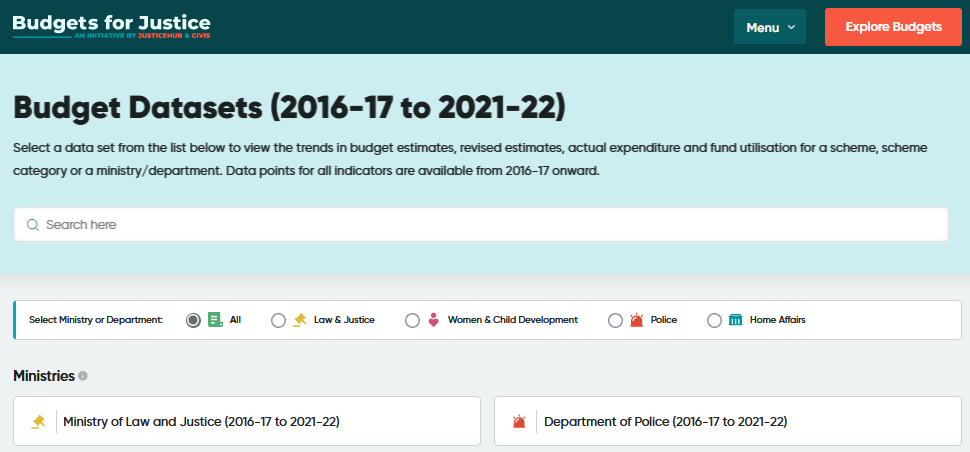
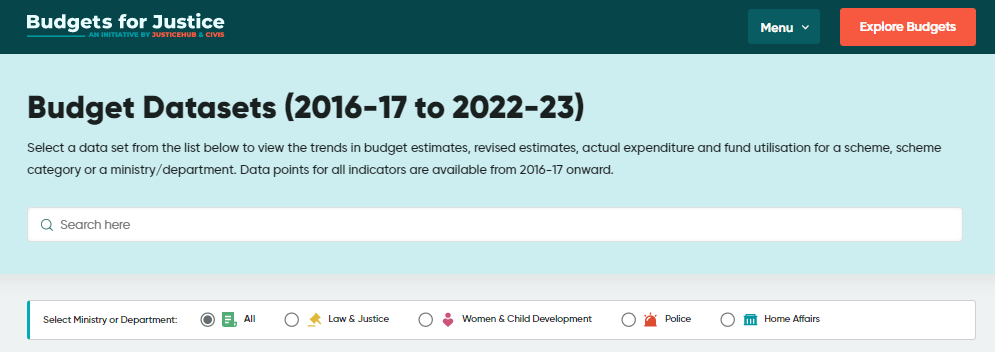
update b4j content

diff --git a/content/work/lawandjustice/budgets-for-justice/index.md b/content/work/lawandjustice/budgets-for-justice/index.md
@@ -7,9 +7,9 @@ context:  |
 
   **Features of the Budgets for Justice platform**
 
-  - [Curated datasets](https://budgets.justicehub.in/datasets) which include budget data between the years 2015-16 and 2021-22 for specific schemes under different ministries and departments  
-  - Explorers to visualize and compare budget data
-  - Curated conversations and discussions with experts in the areas of public finance and law and justice to help understand the budgeting process and the data.
+  - [Curated budget datasets](https://budgets.justicehub.in/datasets) between the years 2015-16 and 2022-23 for specific schemes under different ministries and departments  
+  - [Explorers](https://budgets.justicehub.in/datasets/union-budget-data-for-the-ministry-of-law-and-justice) to visualize and compare budget data
+  - [Curated conversations and discussions](https://twitter.com/search?q=(%23SpacesHost)%20(from%3AJusticeHubIndia)&src=typed_query) with experts in the areas of public finance and law and justice to help understand the budgeting process and the data.
 solution:
 url: https://budgets.justicehub.in
 twitter: https://twitter.com/JusticeHubIndia
